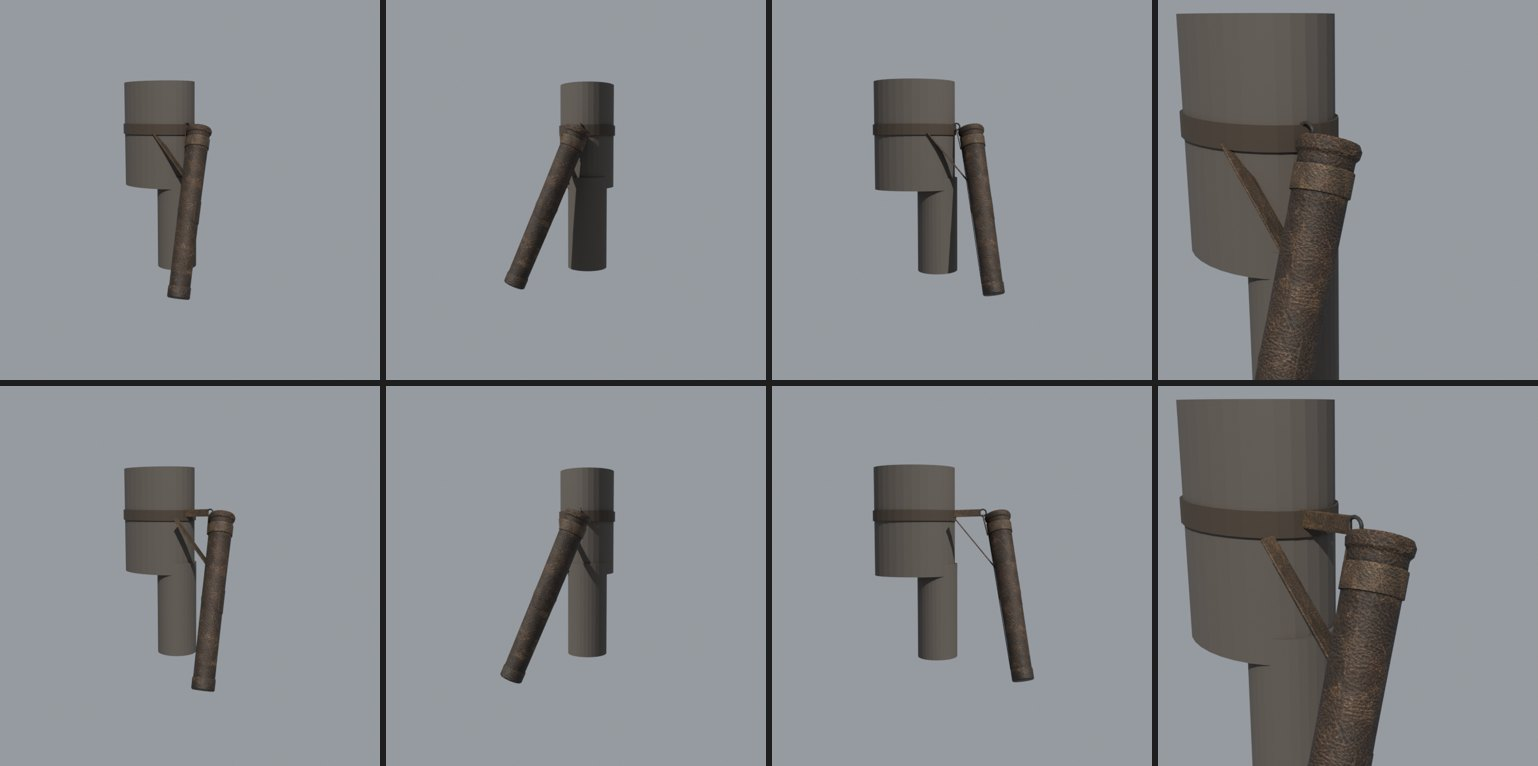
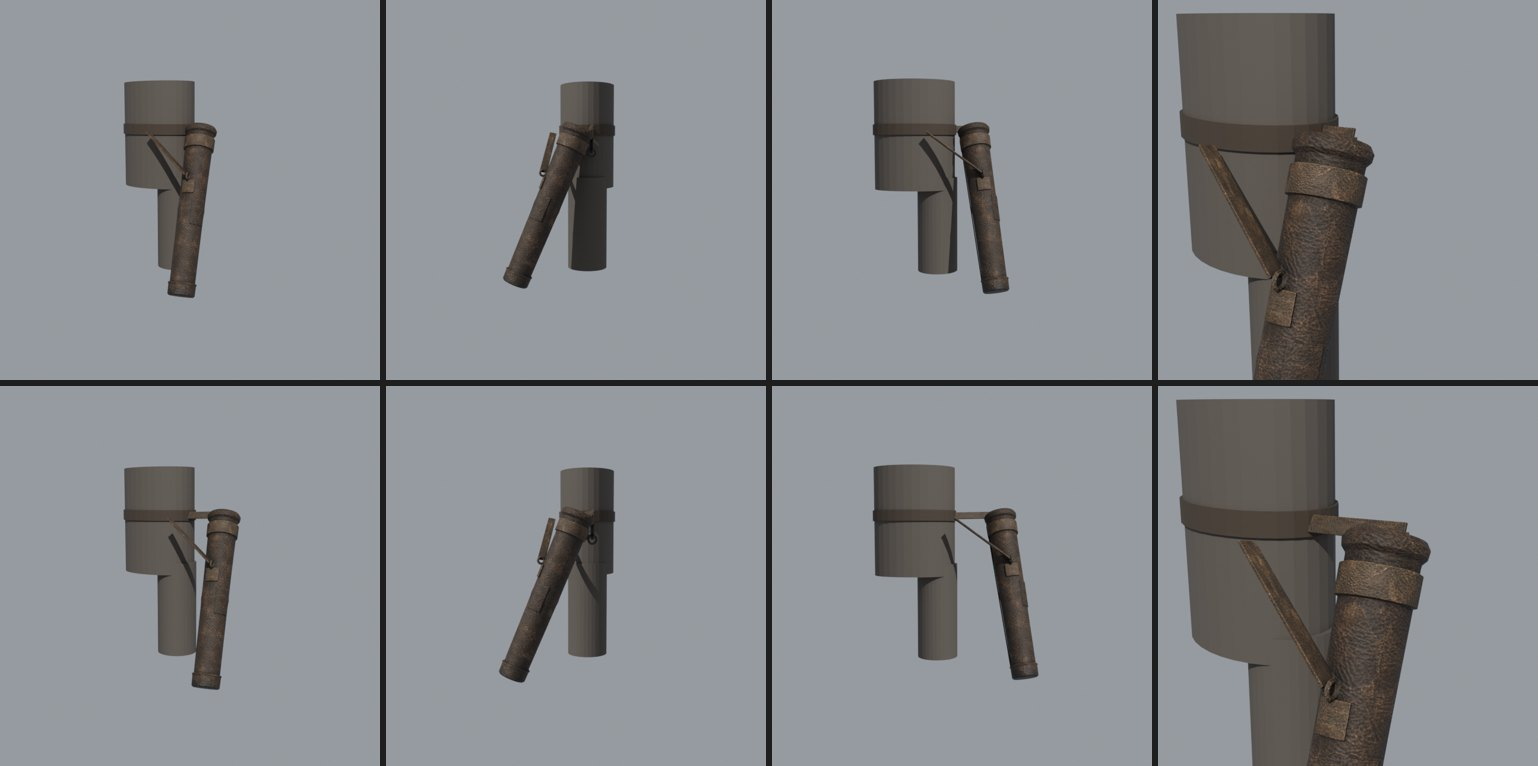
Колчан: толщина концепта и крепление объёмом
Устье 11,5 см, дно 9,5 см, длина 67 см (доля 0,17, как у концепта): тонкая
труба читалась шестом. Валик устья и стакан дна с валиком, обвязка 5 см
с железным кольцом сбоку, подвес вверх к поясу и под него, петля на трети
длины и ремень наклона за бедро, нашитая заплата и шов. 2104 треугольника.
Новые радиусы для quiver-mount и сдвиг под броню — в отчёте.

diff --git a/scripts/content/mesh3d/blender/quiver.py b/scripts/content/mesh3d/blender/quiver.py
@@ -3,8 +3,10 @@
 blender -b --factory-startup -P quiver.py -- quiver.json OUT_DIR   (run from the repository root)
 Design: reports/content/2026-11-quiver (variant 1, "hunter's tube", the user's choice 2026-11-04). A stiff
 tube of boiled leather over two hazel hoops, a rolled rim, a stitched leather cap on the bottom, a back seam
-and a patch; a band under the mouth with a tab up to a small iron ring; a second strap from a third of the
-length up to the belt behind the hip. No arrows: the engine draws them (quiver.h, branch claude/quiver-mount).
+and a sewn-on patch; a thick band under the mouth with an iron ring on a short tab, a hanger from the ring
+up to the belt's height and under the belt; a stitched keeper with a loop at a third of the length and a strap
+up to the belt behind the hip. Thickness as the concept's (0.17 of the length, the user 2026-11-04): a thin tube
+read as a pole. No arrows: the engine draws them (quiver.h, branch claude/quiver-mount).
 A dark cavity "cavity" metres deep under the mouth, so nothing light shows between the arrows.
 
 Frame (as the engine's Quiver): glTF metres, the centre of the mouth at the origin, the quiver along -Y,
@@ -20,7 +22,9 @@ ends go under the belt and into the armour. Close armour hides them; a quiver pu
 still hangs on its straps instead of in the air.
 
 config: {"goal": {...}, "seed": n, "length": m, "mouth_r": m, "bottom_r": m, "wall": m, "cavity": m,
-         "sides": n, "hoops": [depth, ...], "tilt_back": deg, "tilt_out": deg, "reach": m, ...}
+         "sides": n, "hoops": [depth, ...], "rim": m, "cap_height": m, "patch": [angle, y], "band": [y, width],
+         "ring_angle": rad, "belt_back": m, "tilt_strap": [angle, y], "tilt_back_reach": m,
+         "tilt_back": deg, "tilt_out": deg, "reach": m}  (angle 0 is the body side, +pi/2 forward)
 """
 import math
 import sys
@@ -185,54 +189,70 @@ def torus(centre, axis, major, minor, material, seg=14, tube_seg=6):
 
 
 # --- the tube: inner floor of the cavity, the inner wall up, the rolled rim, the outer wall down -----------
-rim = cfg.get("rim", 0.007)
-ys = set(np.round(np.linspace(-0.026, -L + 0.004, cfg.get("rings", 14)), 4))
+rim = cfg.get("rim", 0.009)
+ys = set(np.round(np.linspace(-0.03, -L + 0.004, cfg.get("rings", 14)), 4))
 for depth in cfg.get("hoops", []):  # rings on and beside each hoop, so its bulge is not lost between rings
     ys |= {-depth - 0.014, -depth, -depth + 0.014}
 outer = [(radius(y), y) for y in sorted(ys, reverse=True)]
 profile = ([(0.0, -CAVITY), (radius(-CAVITY) - WALL, -CAVITY)]
            + [(radius(y) - WALL, y) for y in np.linspace(-CAVITY * 0.66, -CAVITY * 0.33, 2)]
-           + [(R0 - WALL, -0.012), (R0 - WALL + 0.001, 0.0), (R0 + rim * 0.35, 0.005), (R0 + rim, -0.004),
-              (R0 + rim * 0.75, -0.016), (radius(-0.022) + 0.0005, -0.022)]
+           + [(R0 - WALL, -0.014), (R0 - WALL + 0.001, 0.0), (R0 + rim * 0.3, 0.006), (R0 + rim, -0.004),
+              (R0 + rim * 0.8, -0.017), (radius(-0.025) + 0.0005, -0.025)]
            + outer + [(0.0, -L + 0.004)])
 # segments: floor and inner wall are the cavity (dark), the rest leather
 inner_segments = 5  # floor, three wall segments, the wall's top under the rim
 lathe(profile, mats=[INNER] * inner_segments + [LEATHER] * (len(profile) - 1 - inner_segments))
 
-# the bottom cap: a stitched leather cup over the end, its open top tucked into the tube
-cap_h, cr = cfg.get("cap_height", 0.045), radius(-L) + 0.003
-lathe([(0.0, -L), (cr - 0.004, -L), (cr, -L + 0.004), (cr + 0.0005, -L + cap_h - 0.004),
-       (cr - 0.001, -L + cap_h), (radius(-L + cap_h) - 0.003, -L + cap_h), (0.0, -L + cap_h)])
+# the bottom cap: a stitched leather cup over the end, its top edge turned out as a welt over the tube
+cap_h, cr = cfg.get("cap_height", 0.05), radius(-L) + 0.004
+lathe([(0.0, -L), (cr - 0.005, -L), (cr, -L + 0.005), (cr + 0.001, -L + cap_h - 0.008),
+       (cr + 0.004, -L + cap_h - 0.004), (cr + 0.001, -L + cap_h), (radius(-L + cap_h) - 0.003, -L + cap_h),
+       (0.0, -L + cap_h)])
 
-# --- the back seam (towards the body) and a patch on the outer side ------------------------------------------
+# --- the seam towards the body and a sewn-on patch on the outer back -------------------------------------
 seam_t = cfg.get("seam_angle", 0.0)
 for y0, y1 in ((-0.03, -0.33), (-0.33, -L + cap_h)):
-    a, b = surface(seam_t, y0, 0.0015), surface(seam_t, y1, 0.0015)
-    strap(a, b, g2b(math.cos(seam_t), 0, math.sin(seam_t)), 0.007, 0.003, LEATHER)
-pt, py = cfg.get("patch", [math.pi * 0.92, -0.30])
-sector(pt - 0.85, pt + 0.65, py - 0.09, py, 0.0018, LEATHER)
+    a, b = surface(seam_t, y0, 0.002), surface(seam_t, y1, 0.002)
+    strap(a, b, g2b(math.cos(seam_t), 0, math.sin(seam_t)), 0.009, 0.004, LEATHER)
+pt, py = cfg.get("patch", [-2.7, -0.30])
+sector(pt - 0.55, pt + 0.5, py - 0.1, py, 0.003, LEATHER)
 
-# --- the hanger: a band under the mouth, a tab up to the ring, a strap from the ring under the belt -----------
-by, bw = cfg.get("band", [-0.06, 0.04])
-lathe([(radius(by) - 0.001, by + bw / 2), (radius(by) + 0.0035, by + bw / 2), (radius(by - bw / 2) + 0.0035, by - bw / 2),
-       (radius(by - bw / 2) - 0.001, by - bw / 2)], loop=True, mats=[STRAP] * 4)
+
+def tangent(t):
+    return g2b(-math.sin(t), 0, math.cos(t))
+
+
+def radial(t):
+    return g2b(math.cos(t), 0, math.sin(t))
+
+
+# --- the hanger: a thick band under the mouth, an iron ring on its back on a short tab, a strap to the belt ---
+by, bw = cfg.get("band", [-0.065, 0.05])
+proud = 0.006
+lathe([(radius(by + bw / 2) - 0.001, by + bw / 2), (radius(by + bw / 2) + proud, by + bw / 2 - 0.002),
+       (radius(by - bw / 2) + proud, by - bw / 2 + 0.002), (radius(by - bw / 2) - 0.001, by - bw / 2)],
+      loop=True, mats=[STRAP] * 4)
 reach = cfg["reach"]
-ring_c = g2b(R0 + 0.011, 0.022, 0.0)
-ring_r, ring_w = 0.014, 0.0035
-tab_from = g2b(radius(by) + 0.006, by - bw / 2 + 0.004, 0.0)
-tab_to = ring_c - UP * (ring_r - 0.002)
-strap(tab_from, tab_to, g2b(1, 0, 0), 0.026, 0.004, STRAP)
-torus(ring_c, BACK, ring_r, ring_w, IRON)  # the ring stands in the plane of the tab and the belt strap
-# the strap round the belt: from the ring towards the body, level in the world, a little lower as it doubles
-belt_from = ring_c + LEFT * (ring_r * 0.6)
-strap(belt_from, belt_from + LEFT * reach - UP * 0.004, -BACK, 0.03, 0.005, STRAP)  # face out, like the belt
+rt = cfg.get("ring_angle", -1.35)
+ring_r, ring_w = 0.017, 0.0042
+tab_from = surface(rt, by, proud - 0.002)
+ring_c = surface(rt, by, proud + 0.012 + ring_r)
+strap(tab_from, ring_c - radial(rt) * (ring_r - 0.003), tangent(rt), 0.022, 0.005, STRAP)
+torus(ring_c, tangent(rt), ring_r, ring_w, IRON)  # the ring stands in the plane of the tab and the axis
+# the hanger to the belt: from the ring straight up to the belt's height (the mouth's), then under the belt
+# towards the body; the upright part shows beside the tube, as on the concept
+belt_up = ring_c + UP * (-ring_c.dot(UP) + 0.004)
+strap(ring_c, belt_up, radial(rt), 0.03, 0.005, STRAP)
+belt_to = LEFT * (R0 + reach) + BACK * cfg.get("belt_back", 0.0)
+strap(belt_up - (belt_to - belt_up).normalized() * 0.01, belt_to, radial(rt), 0.03, 0.005, STRAP)
 
-# --- the tilt strap: from a stitched tab at a third of the length up to the belt behind the hip --------------
-tt, ty = cfg.get("tilt_strap", [0.9, -0.23])
-sector(tt - 0.32, tt + 0.32, ty - 0.035, ty + 0.01, 0.003, STRAP, cols=2)
-t_from = surface(tt, ty + 0.005, 0.004)
-t_to = Vector((0, 0, 0)) + LEFT * (R0 + reach) + BACK * cfg.get("tilt_back_reach", 0.07) - UP * 0.012
-strap(t_from, t_to, -LEFT, 0.026, 0.004, STRAP)
+# --- the tilt strap: a stitched keeper with a loop at a third of the length, a strap up behind the hip ------
+tt, ty = cfg.get("tilt_strap", [-1.0, -0.23])
+sector(tt - 0.45, tt + 0.45, ty - 0.05, ty, 0.005, STRAP, cols=3)
+loop_c = surface(tt, ty + 0.012, 0.011)
+torus(loop_c, tangent(tt), 0.012, 0.0045, STRAP, seg=10, tube_seg=4)
+t_to = LEFT * (R0 + reach) + BACK * cfg.get("tilt_back_reach", 0.07) - UP * 0.012
+strap(loop_c + (t_to - loop_c).normalized() * 0.006, t_to, -LEFT, 0.03, 0.005, STRAP)
 
 metrics = P.finish(goal, out, lo, hi, extra={
     "mouth_gltf_m": [0.0, 0.0, 0.0], "axis_gltf": [0.0, -1.0, 0.0], "body_side_gltf": [1.0, 0.0, 0.0],

diff --git a/reports/content/2026-11-quiver/README.md b/reports/content/2026-11-quiver/README.md
@@ -38,7 +38,7 @@
 
 | Часть | Размер, см | Что делает |
 |---|---|---|
-| тело | длина 65–70; устье 9–10, у дна 7–8 | держит стрелы; стрела 94 см, наконечник у дна, над устьем 25–30 |
+| тело | длина 67; устье 11,5, у дна 9,5 (было 9–10 и 7–8 — нижняя оценка заметки; пользователь 2026-11-04: толщина как у концепта, доля 0,17) | держит стрелы; стрела 94 см, наконечник у дна, над устьем 25–30 |
 | устье | обод 1–2 толщиной | держит форму, по нему скользит стрела; самое стёртое место |
 | дно | диск или стакан 7–8, высота 3–5 | держит наконечники, принимает удар о землю; самое грязное |
 | подвес | 8–15 от устья до ремня | связывает колчан с поясом жёстко, без качания |
@@ -84,70 +84,85 @@
 
 **Состав.** Стрел в модели нет: их рисует движок мешем стрелы по ступеням.
 
+Первая сборка (68 × 9,5 см, тонкие ремни) на листе рядом с концептом читалась ровной тонкой палкой. Пользователь (2026-11-04): «на 3–6 м прочитается как шест, а не как колчан». Вторая сборка — по толщине концепта, крепление объёмом и видно силуэтом.
+
 | Часть | Как сделана | Зона |
 |---|---|---|
-| тело | вращение профиля, 24 стороны, на несколько миллиметров не круглое; сужение 9,5 → 8 см; обруч под кожей на 34 см — валик 2 мм; обод — валик +7 мм; шов из двух полос со стороны тела | кожа |
+| тело | вращение профиля, 24 стороны, на несколько миллиметров не круглое; сужение 11,5 → 9,5 см; обруч под кожей на 34 см — валик 2 мм; обод — валик +9 мм; шов со стороны тела — полоса 9 мм, 4 мм над кожей | кожа |
 | полость | внутренняя стенка от устья вниз на 30 см, там глухое тёмное дно; ниже — сплошное тело | полость, почти чёрная |
-| дно | стакан из кожи высотой 4,5 см поверх конца трубы | кожа |
-| заплата | кривая накладка 7 × 9 см снаружи, на 30–39 см от устья | кожа |
-| подвес | пояс-манжета 4 см под устьем; от неё по стороне тела язычок вверх к кольцу; от кольца ремень 13 см к телу, лицом наружу, как пояс | ремни, железо |
-| кольцо | тор 3,5 см снаружи, прут 7 мм, на 2 см выше устья, в плоскости язычка и ремня к поясу | железо |
-| ремень наклона | накладка со стежком на 23 см от устья, сзади-сбоку; ремень к поясу за бедром: 13 см к телу и 7 см назад | ремни |
+| дно | стакан из кожи высотой 5 см поверх конца трубы, верхний край отвёрнут валиком +4 мм, как прошитый | кожа |
+| заплата | нашитая накладка 6 × 10 см, 3 мм над кожей, снаружи-сзади, на 30–40 см от устья | кожа |
+| обвязка | манжета 5 см под устьем, 6 мм над кожей | ремни |
+| кольцо | железное, 4,2 см снаружи, прут 8 мм, на язычке 1,2 см от манжеты, спереди-сбоку | железо |
+| подвес | от кольца вверх до высоты пояса, оттуда 13 см к телу под пояс; ремень 3 см × 5 мм | ремни |
+| ремень наклона | прошитая накладка 9 × 5 см на 23 см от устья, сзади; на ней кожаная петля; от петли ремень 3 см × 5 мм к поясу за бедром: 13 см к телу и 11 см назад | ремни |
 
 **Числа.**
 
 | | |
 |---|---|
-| треугольники | 1908 (бюджет 2500): кожа и ремни 1740, железо 168 |
-| длина | 68 см от обода до дна стакана |
-| устье | 9,5 см снаружи, обод до 10,9 см; внутри 8,7 см |
-| дно | 8 см, стакан 8,6 см |
-| bbox glTF, м | x −0,055…0,198, y −0,680…0,050, z −0,081…0,054 (ремни к телу — до x 0,198) |
-| открытые рёбра, вывернутые части | 0 и 0 (`metrics.json`: все 11 частей проверены по отдельности; `volume_check.py` сваривает две полосы шва, которые сходятся торцами на 33 см, в одну и насчитывает 10 частей, 0 вывернуто) |
+| треугольники | 2104 (бюджет 3000): кожа и ремни 1936, железо 168 |
+| длина | 67 см от обода до дна стакана |
+| устье | 11,5 см снаружи, обод до 13,3 см; внутри 10,7 см |
+| дно | 9,5 см, стакан 10,3 см, его валик 11,1 см |
+| bbox glTF, м | x −0,067…0,190, y −0,670…0,045, z −0,122…0,105 (ремни к телу — до x 0,190) |
+| открытые рёбра, вывернутые части | 0 и 0 (`metrics.json`: все 13 частей проверены по отдельности; `volume_check.py` сваривает две полосы шва, которые сходятся торцами на 33 см, в одну и насчитывает 12 частей, 0 вывернуто) |
 | glTF Validator 2.0.0-dev.3.10 | 0 ошибок, 0 предупреждений, 2 сообщения `UNUSED_OBJECT` |
-| атлас | 1024², покрытие 56 %; полость ужата в развёртке до 0,3 масштаба |
+| атлас | 1024², покрытие 54 %; полость ужата в развёртке до 0,3 масштаба |
 
-**Устье в осях модели** (glTF, метры): центр устья — начало координат `(0, 0, 0)`. Ось колчана — `−Y`, дно на `y = −0,68`. `+Z` — вперёд по ходу носителя, `+X` — к телу носителя: glTF правый, а загрузчик отражает X, поэтому наружу от правого бедра — `−X`. Это рамка `Quiver` из `quiver.h` ветки `claude/quiver-mount`: наклон назад 22,5° и наружу 7,5° и место на `BIP01 PELVIS` задаёт движок, в модель они не запечены. От наклона в модели зависят только ремни: они идут к поясу по горизонтали мира. Вектор вверх мира в осях Blender модели — `(−0,13; 0,38; 0,92)`, к телу — `(0,99; 0,05; 0,12)`. Скрипт считает их по той же формуле, что `Quiver::fit`.
+**Устье в осях модели** (glTF, метры): центр устья — начало координат `(0, 0, 0)`. Ось колчана — `−Y`, дно на `y = −0,67`. `+Z` — вперёд по ходу носителя, `+X` — к телу носителя: glTF правый, а загрузчик отражает X, поэтому наружу от правого бедра — `−X`. Это рамка `Quiver` из `quiver.h` ветки `claude/quiver-mount`: наклон назад 22,5° и наружу 7,5° и место на `BIP01 PELVIS` задаёт движок, в модель они не запечены. От наклона в модели зависят только ремни: они идут к поясу по горизонтали мира. Вектор вверх мира в осях Blender модели — `(−0,13; 0,38; 0,92)`, к телу — `(0,99; 0,05; 0,12)`. Скрипт считает их по той же формуле, что `Quiver::fit`.
+
+**Для `quiver-mount`** — новые числа тела вместо прежних 68 / 4,75 / 4,0 в `quiver.h`:
+- `Length = 67`;
+- `MouthRadius = 5.75`: устье 11,5 см снаружи. Внутренний радиус стенки 5,35 см, поэтому круг раскладки стрел `MouthRadius − Wall − Shaft` при `Wall = 0,4`, `Shaft = 1` — 4,35 см;
+- `BottomRadius = 4.75`.
+
+Обод выступает ещё на 0,9 см, стакан дна — на 0,8 см сверх этих радиусов. С зазором 2 см до брони у обода остаётся 1,1 см.
 
 «+X к телу» верно для скелета, у которого правая сторона +X, а лицо +Z. Так у людей G2 (`HUMANS.MDH`): `ZS_SWORD` на левом бедре на x −17,5 ([слоты скелета](../../archery/2026-11-04-reload-from-quiver/README.md#слоты-скелета-g2)). `Quiver::fit` строит базис `x = y × z` и для зеркального скелета (`R THIGH` левее `L THIGH`) перевернёт `right`. Тогда +X glTF уйдёт наружу, и ремни будут торчать от бедра. `quiver.py` считает только скелет людей. Колчан носят лучники-люди, поэтому другой случай не поддержан.
 
-**Броня.** Движок ставит колчан в 2 см от ближайшей точки брони. Пояс у бёдер не всегда ближе всего: у `BDT_H` колчан уходит наружу до 13 см. Поэтому ремень от кольца и ремень наклона идут к телу на 13 см (`reach`), по горизонтали мира, и кончаются в броне под поясом. При близкой броне их концы скрыты, при отодвинутом колчане видны ремни до пояса. Проверено на макете бедра и пояса при сдвиге 0 и 11 см ([`quiver_place.py`](../../../scripts/content/mesh3d/blender/quiver_place.py)):
+**Броня.** Движок ставит колчан в 2 см от ближайшей точки брони. Пояс у бёдер не всегда ближе всего: у `BDT_H` колчан уходит наружу до 13 см. Поэтому подвес и ремень наклона идут к телу на 13 см (`reach`), по горизонтали мира, и кончаются в броне под поясом. `reach` отсчитан от поверхности трубы, поэтому новая толщина его не съедает. Ось колчана с новой толщиной уходит наружу на 1 см больше, у обода на 1,9 см. Это сдвиг от брони, а не зазор: зазор до брони остаётся 2 см. При близкой броне концы ремней скрыты, при отодвинутом колчане видны ремни до пояса. Проверено на макете бедра и пояса при сдвиге 0 и 11 см ([`quiver_place.py`](../../../scripts/content/mesh3d/blender/quiver_place.py)):
 
 ![Колчан на макете бедра: сдвиг 0 см (верх) и 11 см (низ); сзади-справа, справа, сзади, крупно](model-place.jpg)
 
-Ограничение. Ремни прямые и жёсткие: при сдвиге больше 13 см ремень не дотянется, при броне с выступом у пояса конец ремня может выйти из брони с другой стороны. Это проверят кадры в игре, когда сольются обе ветки.
+Ограничение. Ремни прямые и жёсткие: при сдвиге больше 13 см ремень не дотянется, а у брони с выступом у пояса конец ремня может выйти из брони с другой стороны. Это проверят кадры в игре, когда сольются обе ветки.
 
 **Виды.** Сверху вниз и слева направо: 3/4; снаружи, со стороны −X; спереди; со стороны тела, +X; сверху, тёмная полость; каркас. Изнанку, видимую камере, `compare.py` залил бы пурпуром (`backfaces`); её нет.
 
 ![Виды модели](model-views.jpg)
 
-**Рядом с концептом.** Модель висит в наклоне движка без макета, камера примерно с ракурса вида 3/4 концепта (`quiver_place.py`, `"stand_in": false`). Слева направо: концепт, модель, их силуэты.
+**Рядом с концептом.** Модель висит в наклоне движка без макета. Камера снаружи бедра, чуть сверху, с ракурса вида 3/4 концепта (`quiver_place.py`, `"stand_in": false`). Слева направо: концепт, модель, их силуэты.
 
 ![Концепт, модель и силуэты](model-vs-concept.jpg)
 
-Силуэт тот же: узкая труба с ободом, манжета под устьем, ремень наклона к поясу, стакан дна.
+Силуэт той же толщины: диаметр около 0,17 длины, как у концепта. Видны те же детали крепления: валик устья, обвязка под устьем с железным кольцом сбоку, подвес от кольца к поясу, ремень наклона от петли к поясу, стакан дна с валиком.
 
-Отличия:
-- Труба у концепта толще: диаметр около 0,17 длины, у модели 0,14 (9,5 × 68 см). Размеры — по карточке и рамке движка: где концепт и цель спорят, побеждает цель (`blender-3d`).
-- Пояса на концепте модель не несёт: его даёт броня. От подвеса видны язычок с кольцом и ремни к телу.
-- Ремень наклона на концепте идёт вдоль трубы с двумя стежками, у модели он отходит от накладки к поясу.
-- Кожа модели темнее и ровнее, как требует цель цвета; заплата и шов с этой стороны не видны.
+Отличия, которые остались:
+- Пояса нет: его даёт броня носителя. На концепте лежит отрезок пояса, на модели от подвеса видна только вертикальная часть, дальше ремень уходит к телу.
+- Ремень наклона на концепте отходит от трубы буквой V, у модели идёт почти вдоль трубы. Он тянется к поясу за бедром, по наклону движка, а не по ракурсу картинки.
+- Стежки — на концепте отдельные крестики и строчки. У модели это валики и накладки, нитки мельче того, что видно на 3–6 м ([`blender-3d`, «Что видно в игре»](../../../.claude/skills/blender-3d/SKILL.md)).
+- Кожа модели темнее и ровнее по цели цвета карточки; светлые потёртости только на кромках.
 
-**Цвет.** Плитки — своя кожа и своё железо набора рынка (`market-set/tiles`). Атлас запечён [`bake_atlas.py`](../../../scripts/content/mesh3d/blender/bake_atlas.py) по [`quiver-atlas.json`](../../../scripts/content/mesh3d/blender/quiver-atlas.json). Цели — числа карточки, не концепт: тело `#3A2C1E`, ремни `#4A3A28`, железо `#2A2826`, полость `#120C08`. Цель держат открытые тексели с AO ≥ 0,5. Перекрёстная проверка по альбедо атласа: тело `#372A1D`; светлая десятая часть `#55432F` при стёртой кромке `#6A5640` в карточке; тёмная десятая часть `#2A1F14` при шве `#120C08`. Кромки и швы вышли мягче карточки, среднее — в цели. Металличность железа ×0,3: ржавое и грязное.
+**Цвет.** Плитки — своя кожа и своё железо набора рынка (`market-set/tiles`). Атлас запечён [`bake_atlas.py`](../../../scripts/content/mesh3d/blender/bake_atlas.py) по [`quiver-atlas.json`](../../../scripts/content/mesh3d/blender/quiver-atlas.json). Цели — числа карточки, не концепт: тело `#3A2C1E`, ремни `#4A3A28`, железо `#2A2826`, полость `#120C08`. Цель держат открытые тексели с AO ≥ 0,5. Заплата, шов, валики и ремни — отдельные детали: у каждой свой тон, тёмный стык по AO и светлая стёртая кромка (`edge_wear`). Перекрёстная проверка по альбедо атласа:
+- тело `#372A1D`;
+- светлый процент текселей (кромки валиков, дна и ремней) `#755D41` при стёртой кромке `#6A5640` в карточке;
+- тёмная десятая часть `#291F14` при шве `#120C08`: швы мягче карточки.
+
+Среднее — в цели. Металличность железа ×0,3: ржавое и грязное.
 
 ![Атлас и цвет против цели](model-colour.jpg)
 
 **Логика вещи.** Вещь собрана так:
-- Труба из толстой вареной кожи, форму держат обруч под кожей и обод. Шов на стороне тела, его не видно снаружи. Дно — кожаный стакан на конце: о землю бьётся он и в грязи он.
-- Колчан висит на манжете под устьем: язычок поднимается к кольцу, кольцо держит ремень, обёрнутый вокруг пояса.
-- Наклон дном назад держит второй ремень: от трети длины к поясу за бедром.
-- Стрела выходит из открытого устья без клапана. Кольцо выше обода, но в стороне тела, мимо руки.
+- Труба из толстой вареной кожи, форму держат обруч под кожей и обод. Шов на стороне тела. Дно — кожаный стакан на конце: о землю бьётся он и в грязи он.
+- Колчан висит на манжете под устьем. Кольцо на её язычке держит подвес, а подвес обёрнут вокруг пояса.
+- Наклон дном назад держит второй ремень: от петли на трети длины к поясу за бедром.
+- Стрела выходит из открытого устья без клапана. Кольцо ниже обода, на манжете, мимо руки.
 - Колчан носят под дождём: низ темнее и грязнее.
 
 **Файлы.**
 - Тело `ITRW_QUIVER`: `~/.local/share/gothic-ai/content-staging/quiver/content/`, корень контента для `OPENGOTHIC_CONTENT`. В нём:
   - `meshes/meshes.json`: `ITRW_QUIVER → quiver/model.glb`;
-  - `meshes/quiver/model.glb`, SHA-256 `bb50dd08984582c3…`;
+  - `meshes/quiver/model.glb`, SHA-256 `bf863b0824997b29…`;
   - `materials/materials.json`: `OWN_QUIVER_LEATHER.TGA`, `OWN_QUIVER_IRON.TGA` → `materials/quiver/{albedo,normal,orm}.dds`.
 - Заглушка ветки `quiver-mount` (`quiver_stub.py`) пишет ту же запись `ITRW_QUIVER` в `meshes.json` со своим `quiver-stub/model.glb`. Замена — смена файла: запись `ITRW_QUIVER` указывает на `quiver/model.glb`, к ключам `materials.json` добавляются два ключа колчана. Движок не меняется.
 - Рабочие файлы: `content-staging/quiver/build/` — `model.glb` с UV плиток, `metrics.json`, `quiver.blend`; `atlas/` — атлас и его карты; `renders/`.
